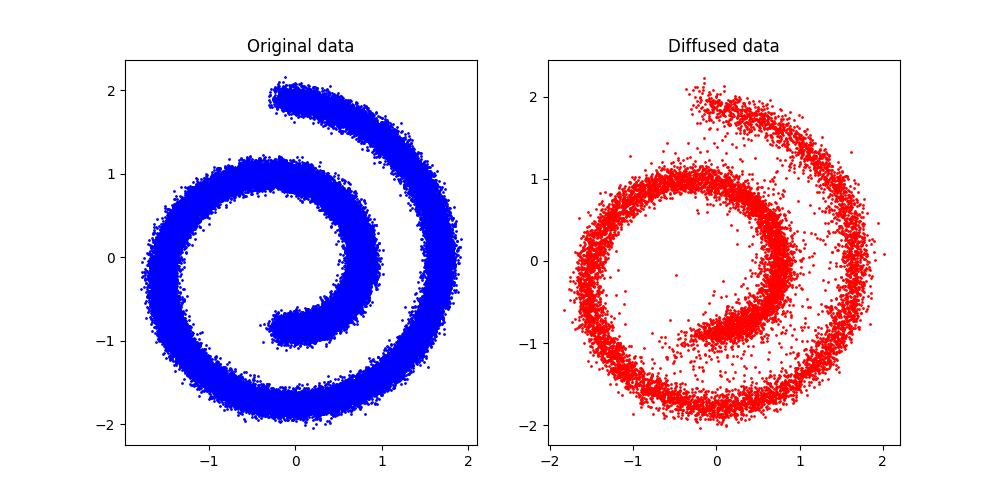
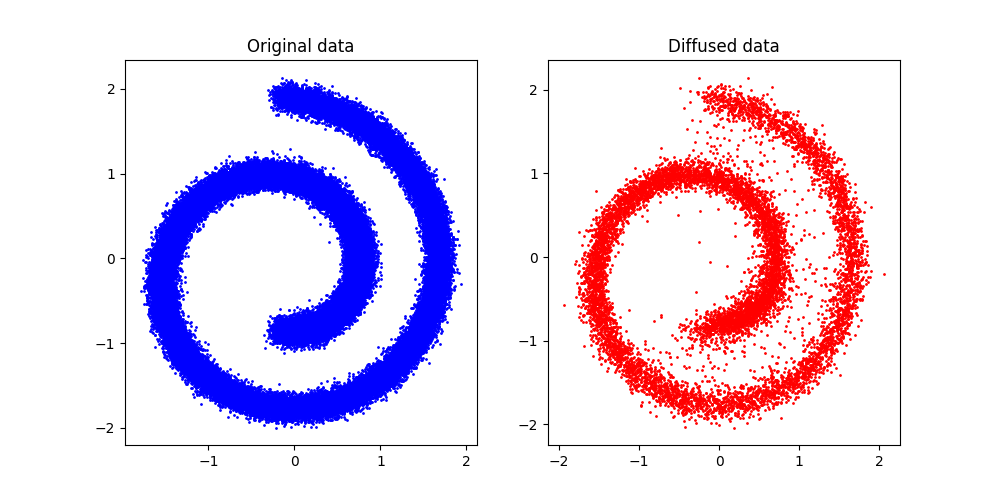
Adding Experiments

diff --git a/python_examples/diffuser_v0.py b/python_examples/diffuser_v0.py
@@ -29,8 +29,8 @@ class RegressionMLP(NetProp):
         self.nodes = [3, 64, 64, 64, 64, 2]
         self.activations = [0, 4, 4, 4, 4, 0]
         self.batch_size = 2500
-        self.sigma_v = 0
-        self.sigma_v_min: float = 0.0
+        self.sigma_v = 1.0
+        self.sigma_v_min: float = 0.1
         self.decay_factor_sigma_v: float = 0.95
         self.cap_factor: float = 1
         self.noise_gain = 1.0
@@ -165,6 +165,7 @@ class Diffuser:
 
         # Denoising history
         xt = [x]
+        vart = [np.ones_like(x)]
 
         num_iter = int(x.shape[0] / self.batch_size)
 
@@ -178,6 +179,7 @@ class Diffuser:
             x_temp = []
             var_temp = []
 
+            associated_variance = np.zeros_like(num_iter * self.batch_size)
 
             for i in range(num_iter):
 
@@ -186,13 +188,16 @@ class Diffuser:
                 self.network.feed_forward(np.concatenate((x_batch, np.full((len(x_batch), 1), fill_value=t/40)), axis=1), Sx_batch, Sx_f_batch)
                 predicted_noise, predicted_variance = self.network.get_network_predictions()
 
-                # Forward pass with input noise and timestep
-                #self.network.forward(np.concatenate((x_batch, np.full((len(x_batch), 1), fill_value=t/40)), axis=1))
-                # Retrieve the predicted noise
-                #predicted_noise, predicted_variance = self.network.get_outputs()
+
+                # Update Variance associated with the X_t-1
+                # \Sigma_{t-1}^X = 1 / \alpha_t * \Sigma_t^X + \frac{(1-\alpha_t)^2}{\alpha_t-\alpha_t^2} * \Sigma_t^\epsilon
+                associated_variance = 1 / self.alphas[t] * associated_variance + (1 - self.alphas[t]) ** 2 / (self.alphas[t] - self.alphas[t] ** 2) * predicted_variance
+
 
                 # Denoise
-                aux = 1 / (self.alphas[t] ** 0.5) * (x_batch.flatten() - (1 - self.alphas[t]) / ((1-self.baralphas[t]) ** 0.5) * predicted_noise)
+                #epsilon = z(O)(x,t) + v, v: V ~ N(0, predicted_variance)
+                epsilon = predicted_noise + np.random.normal(0, self.sigma_v_ini**2)
+                aux = 1 / (self.alphas[t] ** 0.5) * (x_batch.flatten() - (1 - self.alphas[t]) / ((1-self.baralphas[t]) ** 0.5) * epsilon)
 
                 if t > 1:
                     variance = self.betas[t]
@@ -200,18 +205,20 @@ class Diffuser:
                     aux += std * np.random.randn(*predicted_noise.shape)
 
                 x_temp = np.concatenate((x_temp, aux))
-                var_temp = np.concatenate((var_temp, predicted_variance))
+                var_temp = np.concatenate((var_temp, associated_variance))
 
             #print("x_temp", x_temp.shape)
             #print("x", x.shape)
             # Transform x_temp to x shape
             x_temp = x_temp.reshape(x.shape)
+            var_temp = var_temp.reshape(x.shape)
 
             xt += [x_temp]
+            vart += [var_temp]
             x = x_temp
             variance = var_temp
 
-        return x, xt, variance
+        return x, xt, variance, vart
 
 
     def init_inputs(self, batch_size: int, nodes_output) -> Tuple[np.ndarray, np.ndarray]:

diff --git a/python_examples/diffusion_runner.py b/python_examples/diffusion_runner.py
@@ -18,10 +18,12 @@ from sklearn.datasets import make_swiss_roll
 from sklearn.datasets import make_moons
 
 
+from pytagi import NetProp
+
+
 x, _ = make_swiss_roll(n_samples=100000, noise=0.5)
 # Make two-dimensional to easen visualization
 x = x[:, [0, 2]]
-
 x = (x - x.mean()) / x.std()
 
 #make_moons, labels = make_moons(n_samples=100000, noise=0.01)
@@ -40,22 +42,15 @@ baralphas = schedule / schedule[0]
 betas = 1 - baralphas / np.concatenate([baralphas[0:1], baralphas[0:-1]])
 alphas = 1 - betas
 
-
-
-
-def noise(Xbatch, t):
-    eps = np.random.randn(*Xbatch.shape)
-    noised = (baralphas[t] ** 0.5).repeat(Xbatch.shape[1], axis=1) * Xbatch + ((1 - baralphas[t]) ** 0.5).repeat(Xbatch.shape[1], axis=1) * eps
-    return noised, eps
-
 X = np.array(x, dtype=np.float32)
 
 from .diffuser_v0 import Diffuser
+#from .diffuser_heteros_v0 import Diffuser
 
 diffuser = Diffuser(
     num_epochs=100,
     #batch_size=2048,
-    batch_size=10,
+    batch_size=2500,
     X_data=X,
     diffusion_steps=diffusion_steps,
     sampling_dim=(10000, 2),
@@ -72,7 +67,7 @@ plt.ylabel("Error variance")
 plt.title("Error variance during training")
 plt.savefig("error_variance.png")
 
-x, xt, var = diffuser.sample()
+x, xt, var, var_temp = diffuser.sample()
 
 x2 = x
 xt2 = xt
@@ -94,8 +89,42 @@ ax[0].scatter(X[:, 0], X[:, 1], c="b", s=1)
 ax[0].set_title("Original data")
 
 # Plotting diffused data with colors based on variance
-sc = ax[1].scatter(x2[:, 0], x2[:, 1], c=var2[:,0], cmap='viridis', s=1, vmin=0, vmax=0.01)
+sc = ax[1].scatter(x2[:, 0], x2[:, 1], c=var2[:,0], cmap='viridis', s=1, vmin=0.0, vmax=0.01)
 ax[1].set_title("Diffused data")
 plt.colorbar(sc, ax=ax[1], label='Variance')
 
 plt.savefig("diffusion_swiss_roll_variance.png")
+
+import matplotlib.animation as animation
+
+def draw_frame(i):
+    plt.clf()
+    Xvis = xt2[i]
+    fig = plt.scatter(Xvis[:, 0], Xvis[:, 1], marker="1", animated=True, c=var_temp[i][:,0], cmap='viridis', s=1, vmin=0.0, vmax=0.01)
+    plt.xlim([-2.2, 2.2])
+    plt.ylim([-2.2, 2.2])
+    return fig,
+
+
+fig = plt.figure()
+anim = animation.FuncAnimation(fig, draw_frame, frames=40, interval=1, blit=True)
+anim.save("diffusion.gif", writer="imagemagick")
+
+
+# Choose 20 random points to track
+num_points = 20
+random_indices = np.random.choice(len(xt2[0]), num_points, replace=False)
+tracked_points = {i: [] for i in random_indices}
+
+def draw_frame(i):
+    plt.clf()
+    for idx in tracked_points:
+        tracked_points[idx].append(xt2[i][idx])
+        plt.plot(*zip(*tracked_points[idx]), color='blue', marker='o', markersize=2)  # Plot trajectory
+        plt.scatter(xt2[i][idx][0], xt2[i][idx][1], color='red', marker='o', s=5)  # Plot current position
+    plt.xlim([-2.2, 2.2])
+    plt.ylim([-2.2, 2.2])
+
+fig = plt.figure()
+anim = animation.FuncAnimation(fig, draw_frame, frames=len(xt2), interval=100, blit=True)
+anim.save("point_trajectories.gif", writer="imagemagick")

diff --git a/experiments/005 Heteroscedasticity & Variance associated & bat 490849dadf5540fb9650aedf57459aea.md b/experiments/005 Heteroscedasticity & Variance associated & bat 490849dadf5540fb9650aedf57459aea.md
@@ -1,0 +1,19 @@
+# 005 Heteroscedasticity & Variance associated & batch_size = 5
+
+Heteroscedastic implementation: [https://github.com/miquelflorensa/cuTAGI/blob/diffusion-tagi/python_examples/diffuser_heteros_v0.py](https://github.com/miquelflorensa/cuTAGI/blob/diffusion-tagi/python_examples/diffuser_heteros_v0.py)
+
+We use batch size = 5 and noise_gain = 1. With bigger batch_sizes it explodes. Deactivate weight update of 2 additional output layers for 1st epoch needs to be tried.
+
+![Screenshot 2024-03-05 at 1.40.08 PM.png](005%20Heteroscedasticity%20&%20Variance%20associated%20&%20bat%20490849dadf5540fb9650aedf57459aea/Screenshot_2024-03-05_at_1.40.08_PM.png)
+
+Variance Associated with $X_{t-1}$ is obtained from:
+
+![Screenshot 2024-03-05 at 1.34.36 PM.png](005%20Heteroscedasticity%20&%20Variance%20associated%20&%20bat%20490849dadf5540fb9650aedf57459aea/Screenshot_2024-03-05_at_1.34.36_PM.png)
+
+![diffusion_swiss_roll.png](005%20Heteroscedasticity%20&%20Variance%20associated%20&%20bat%20490849dadf5540fb9650aedf57459aea/diffusion_swiss_roll.png)
+
+![diffusion_swiss_roll_variance.png](005%20Heteroscedasticity%20&%20Variance%20associated%20&%20bat%20490849dadf5540fb9650aedf57459aea/diffusion_swiss_roll_variance.png)
+
+![diffusion_with_trajectories.gif](005%20Heteroscedasticity%20&%20Variance%20associated%20&%20bat%20490849dadf5540fb9650aedf57459aea/diffusion_with_trajectories.gif)
+
+![error_variance.png](005%20Heteroscedasticity%20&%20Variance%20associated%20&%20bat%20490849dadf5540fb9650aedf57459aea/error_variance.png)
